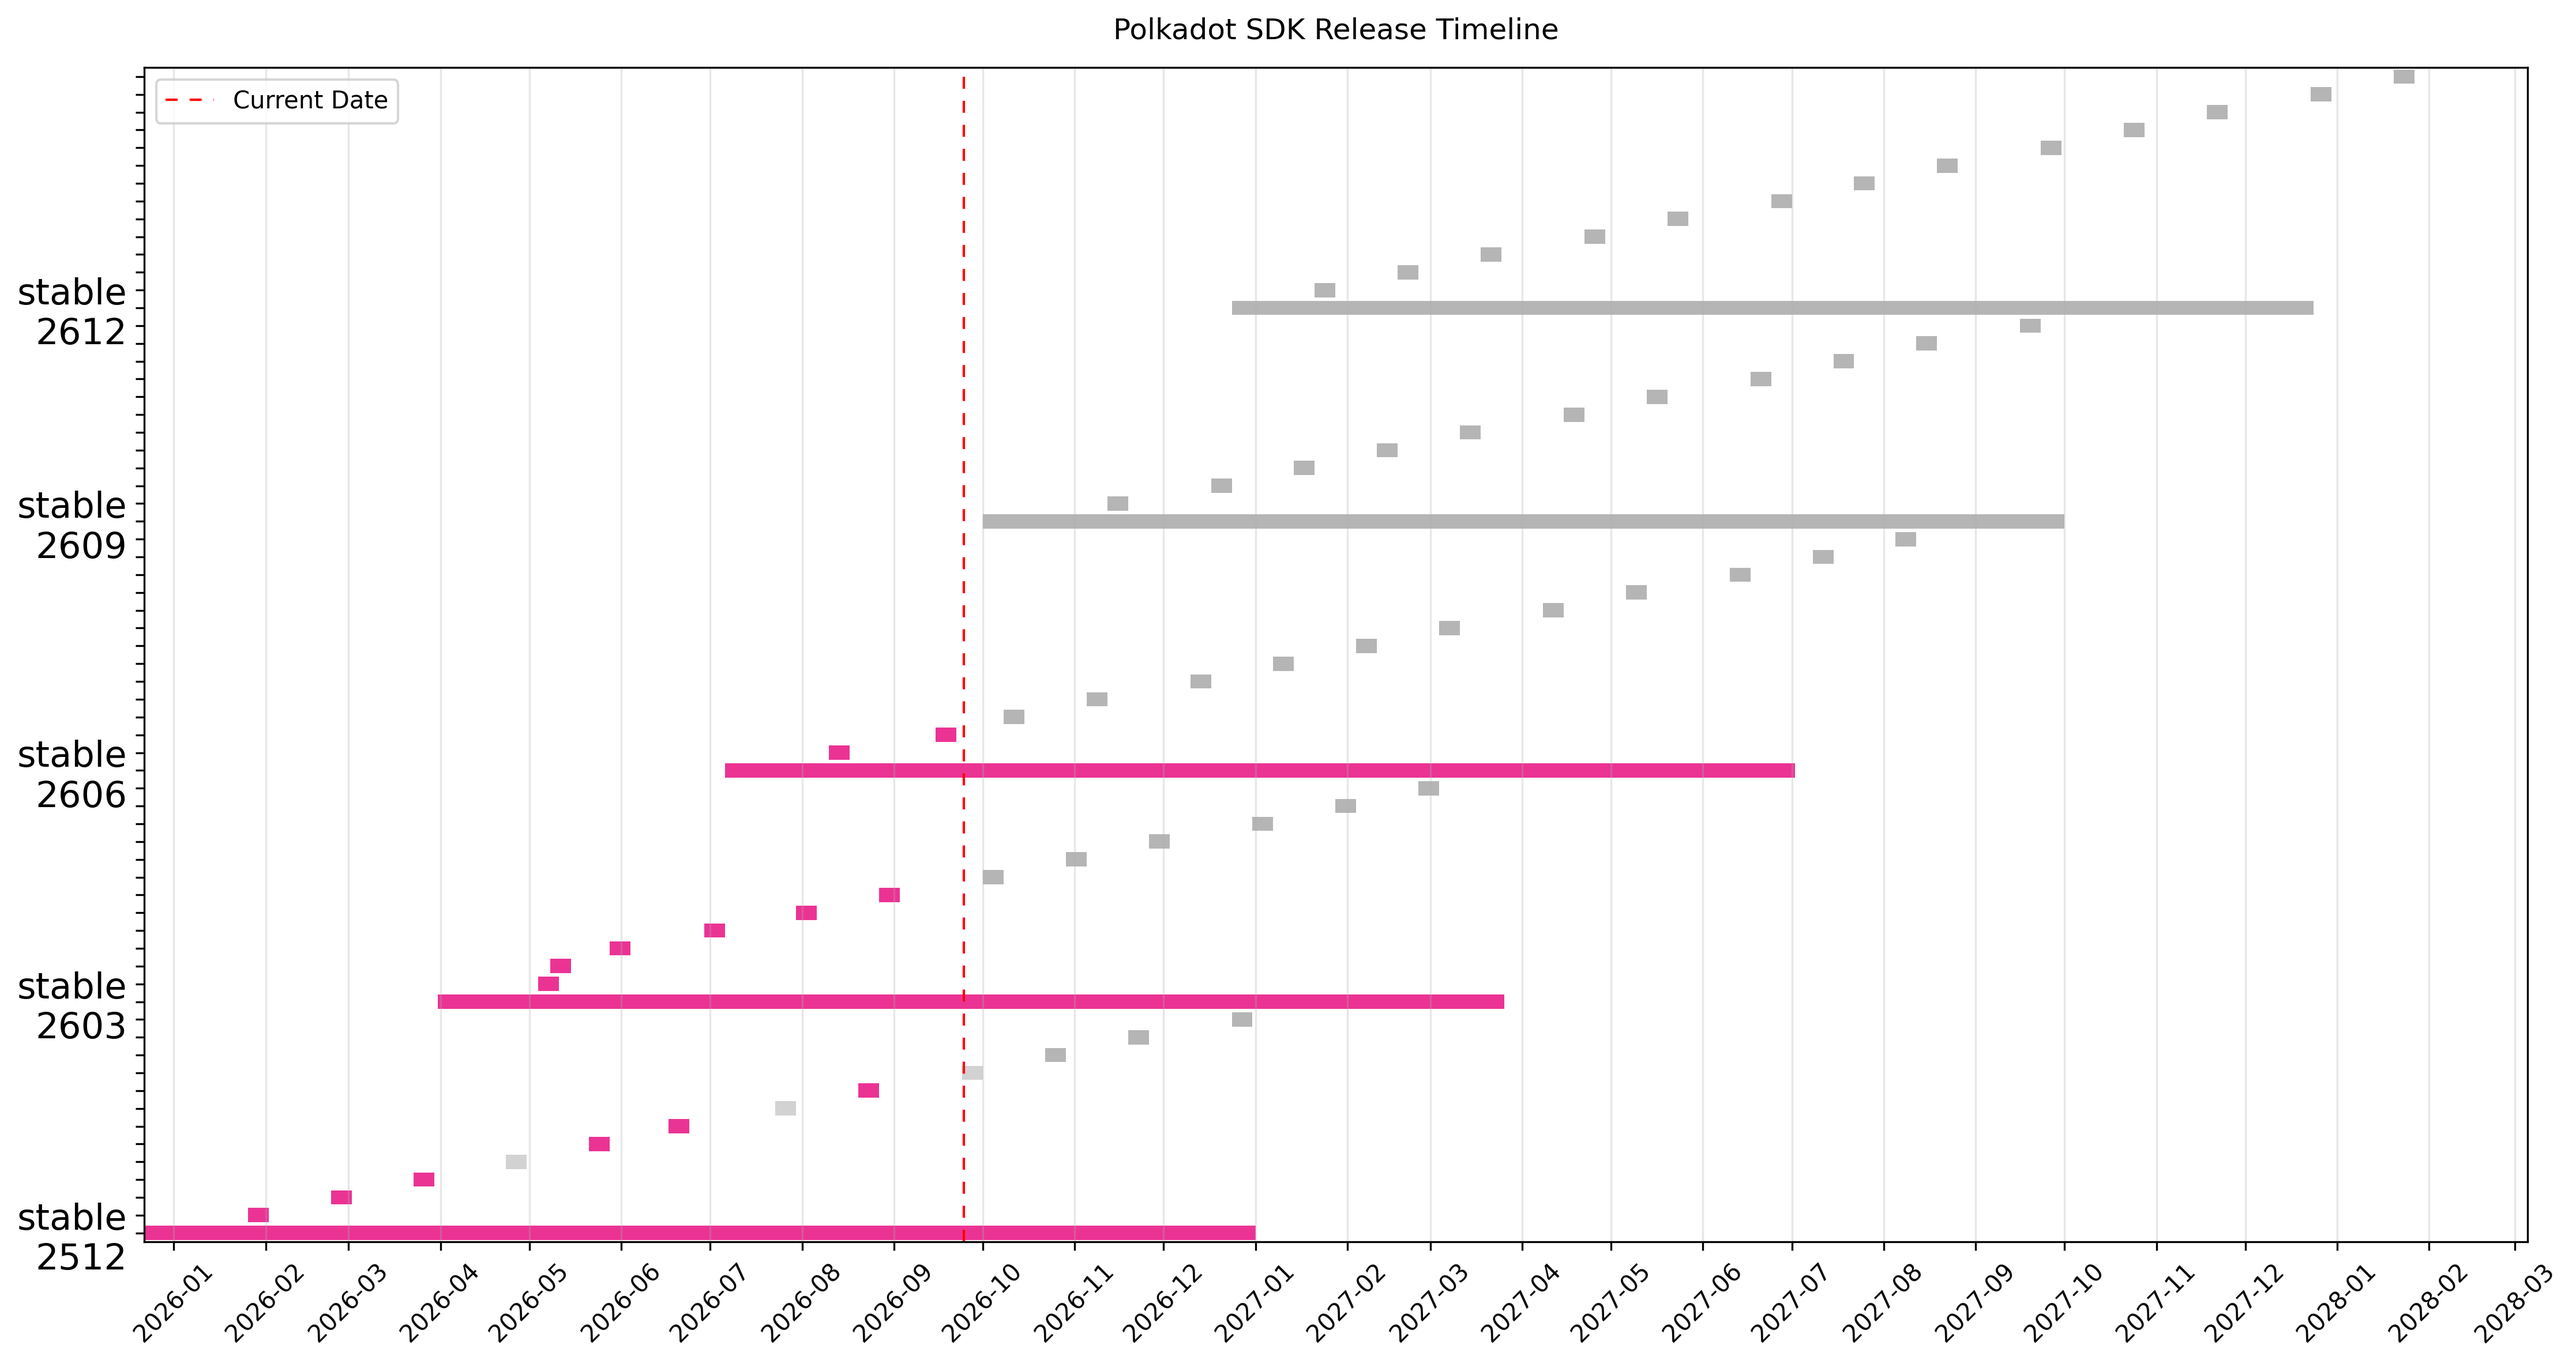
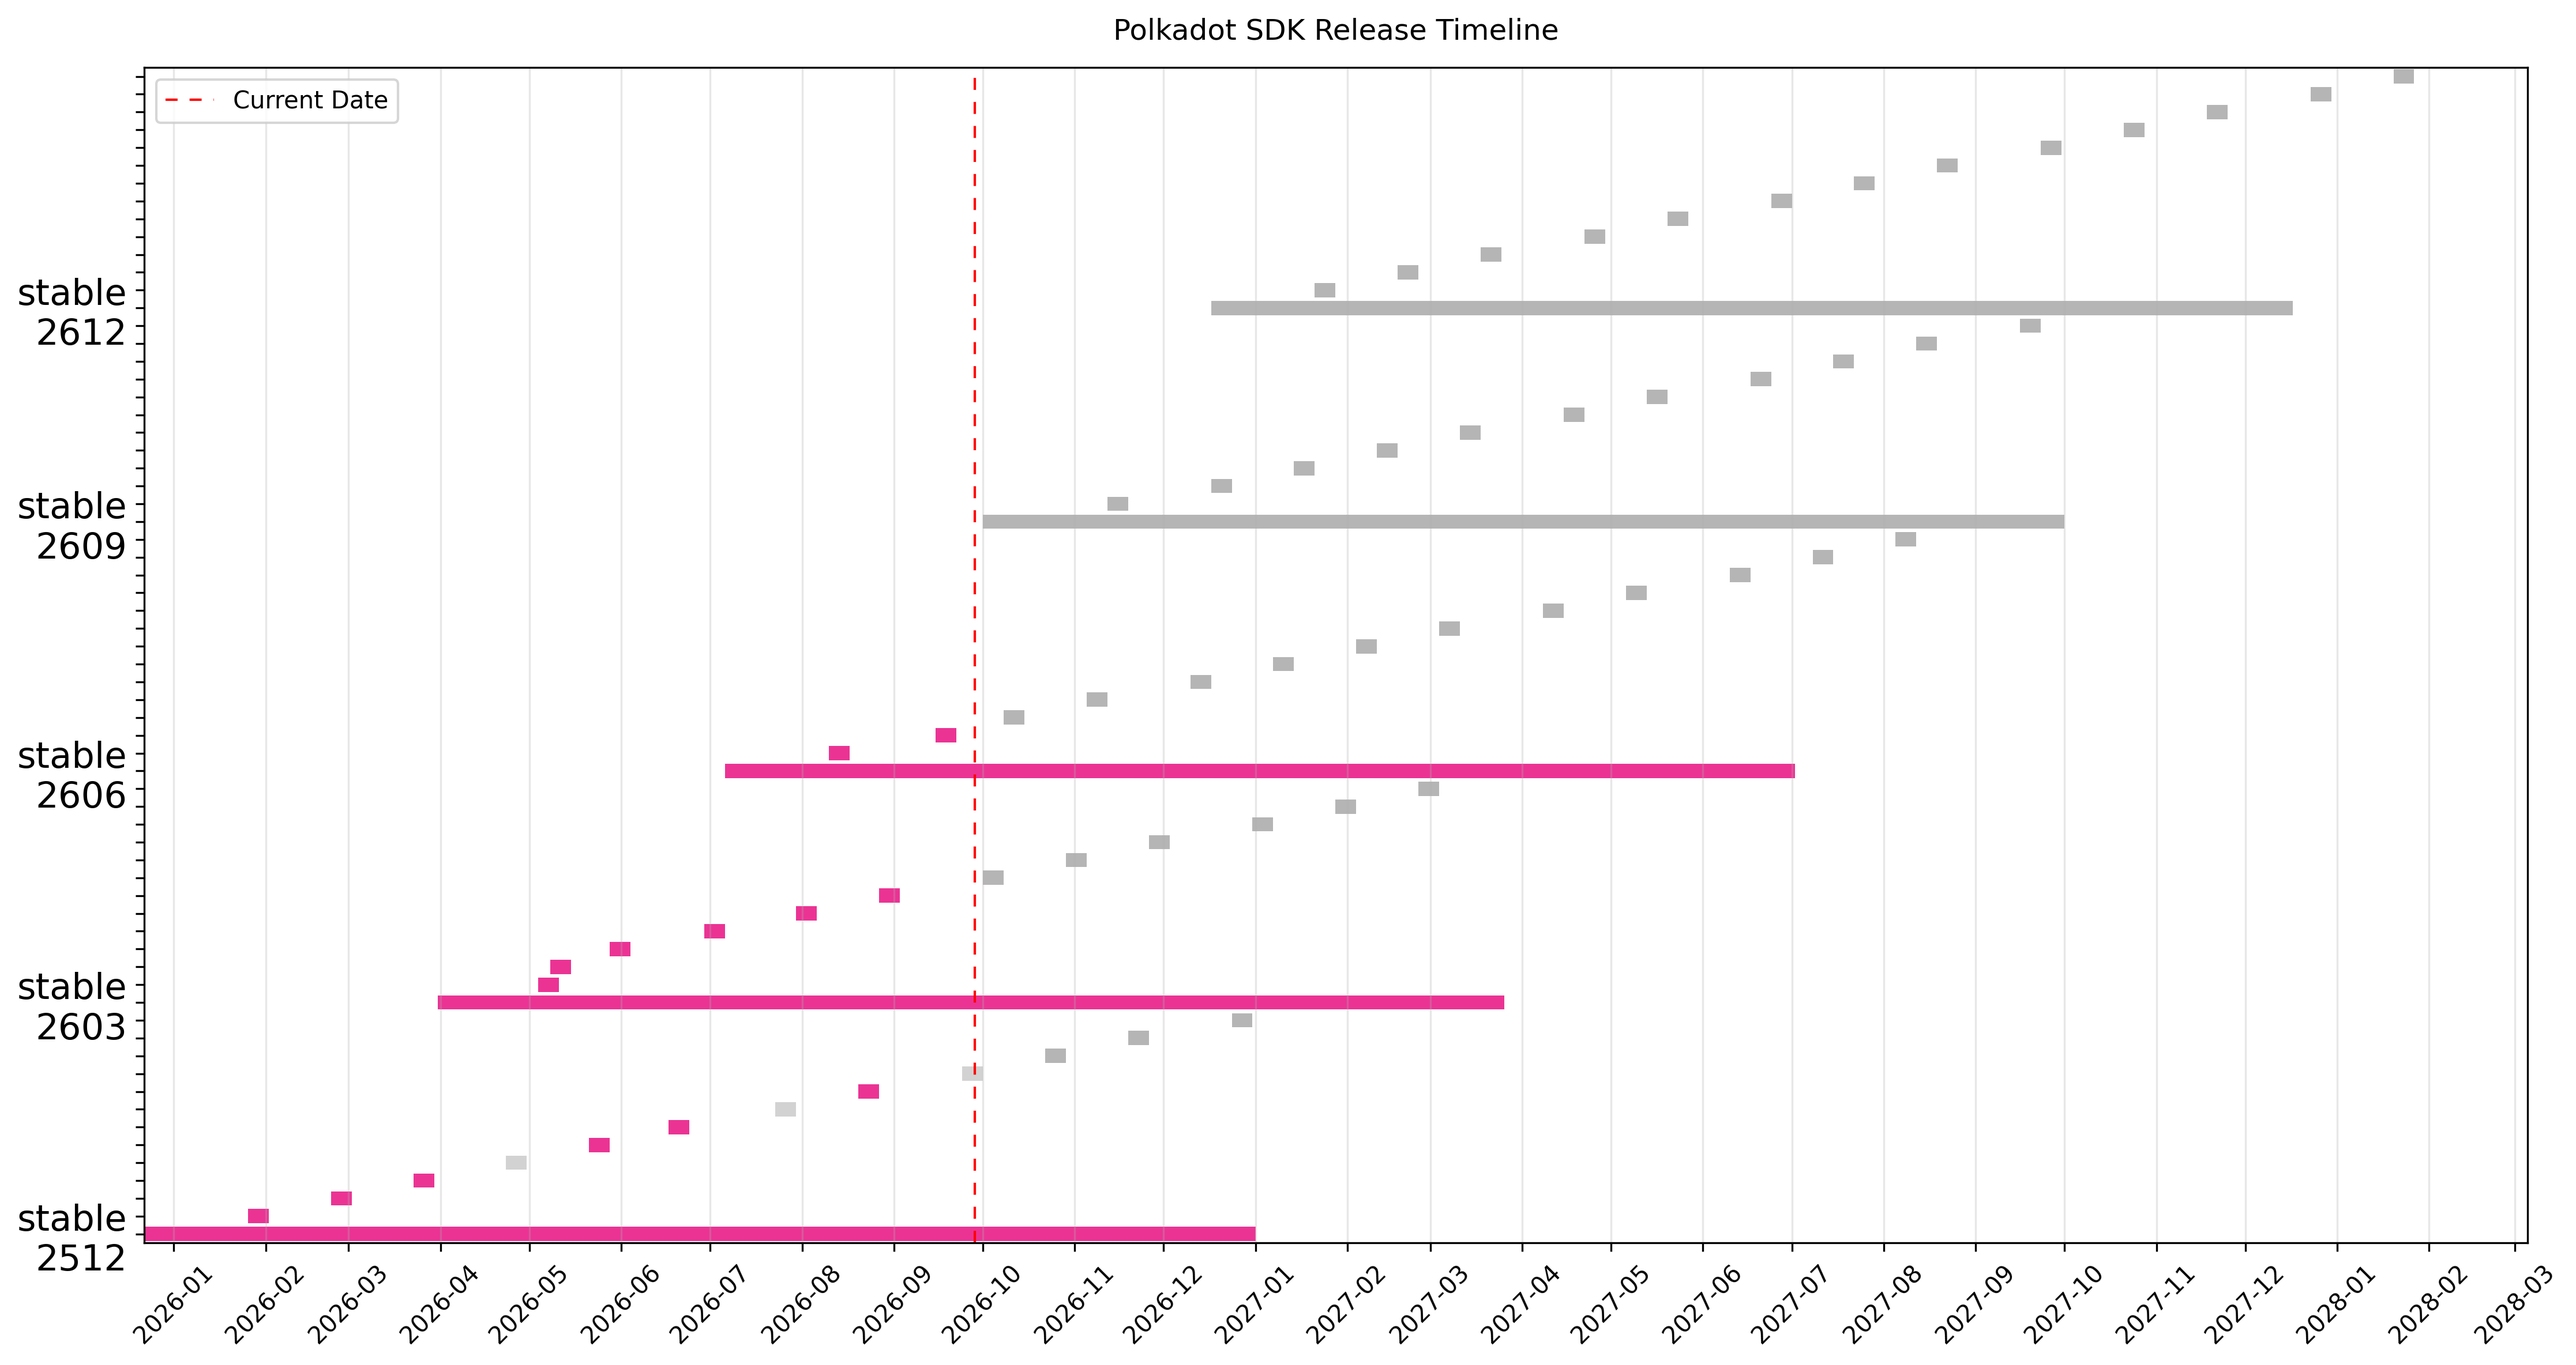
Update release date

Changed region(s): [[0.8715, 0.216, 0.9026, 0.2468], [0.4669, 0.216, 0.498, 0.2468]]

diff --git a/CALENDAR.md b/CALENDAR.md
@@ -8,7 +8,7 @@ Full untruncated version index.
 
 | Version | SemVer | Cutoff | Publish | End of Life | State |
 |---------|--------|--------|---------|-------------|-------|
-| **stable2612** | 1.26.0 | 2026-11-09 | 2026-12-24 | 2027-12-24 | Planned |
+| **stable2612** | 1.26.0 | 2026-11-09 | 2026-12-17 | 2027-12-17 | Planned |
 | &nbsp;&nbsp;stable2612-1 | 1.26.1 | 2027-01-18 | 2027-01-21 |  | Planned |
 | &nbsp;&nbsp;stable2612-2 | 1.26.2 | 2027-02-15 | 2027-02-18 |  | Planned |
 | &nbsp;&nbsp;stable2612-3 | 1.26.3 | 2027-03-15 | 2027-03-18 |  | Planned |

diff --git a/README.md b/README.md
@@ -20,7 +20,7 @@ Planned and historic release dates:
 
 | Version | SemVer | Cutoff | Publish | End of Life | State |
 |---------|--------|--------|---------|-------------|-------|
-| **stable2612** | 1.26.0 | 2026-11-09 | 2026-12-24 | 2027-12-24 | Planned |
+| **stable2612** | 1.26.0 | 2026-11-09 | 2026-12-17 | 2027-12-17 | Planned |
 | &nbsp;&nbsp;stable2612-1 | 1.26.1 | 2027-01-18 | 2027-01-21 |  | Planned |
 | &nbsp;&nbsp;stable2612-2 | 1.26.2 | 2027-02-15 | 2027-02-18 |  | Planned |
 | &nbsp;&nbsp;[11 more planned](CALENDAR.md) |  |  | | |
